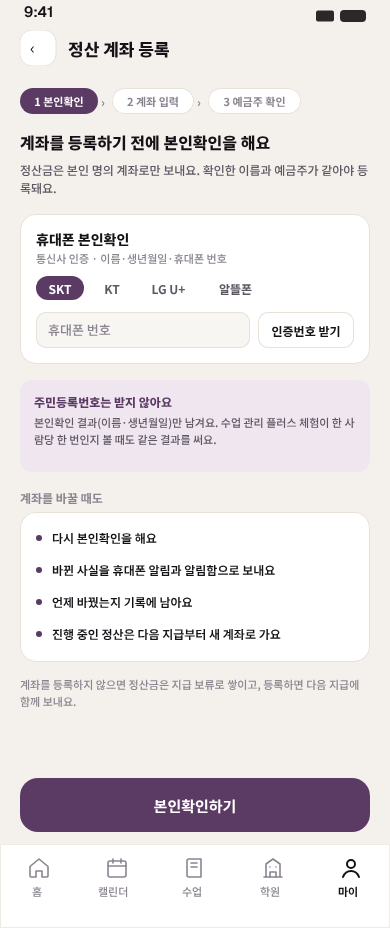
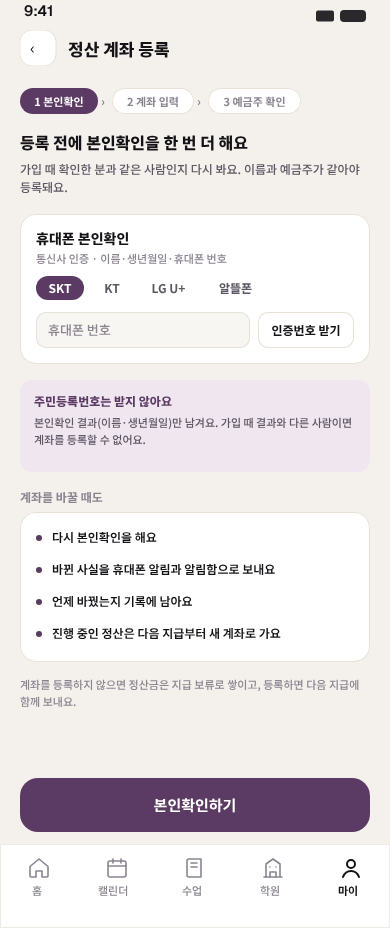
docs(spec): 회원 가입 정보 화면을 일반 가입 화면처럼 바꾸고 강사 가입에 휴대폰 본인확인을 필수로 넣는다
회원 가입 정보(M3)에서 본인확인 표시를 빼고 인증 값이 채워진 보통 입력칸과 남/여 선택 막대로 그렸다. 대학생 칸은 토글 없이 메일 인증 버튼만 둔다. 강사는 본인확인부터 한 뒤 아이디를 만들고 한 사람당 계정 하나만 갖는다. 미루면 찾기 구멍과 자기 신고뿐인 만 19세 확인이 남기 때문이다. 정산 계좌 등록 때는 같은 사람인지 한 번 더 확인한다.

spec: FR-002(가입 정보 수집·고지) · FR-006(대학생 이메일 인증) · FR-011(강사·대표 계정 승인) · FR-112e(1년 체험) · FR-133·FR-133b(강사 정산 계좌) · Q23(강사 본인확인 시점) 확정 · Q41(강사 가입 규칙)
보드: M3 · I31C · I31 · I31B · I18

diff --git a/specs/001-ai-dance-class-platform/spec.md b/specs/001-ai-dance-class-platform/spec.md
@@ -348,6 +348,8 @@
 | 2026-11-13 | **대표 앱에서도 할 수 있는 일을 넓힘** — 관리자 웹 기능 가운데 휴대폰에서 할 수 있는 13가지(강사 관리·권한 토글·소속 해제·현장 등록·1+1 참여·자주 묻는 질문 승인·수업 간단 수정·휴강 현황·주문 찾기·정산 이의 답·지급 보류 확인·환불 실행·강사 지급 승인)를 대표 앱에 넣었다. 환불 실행과 강사 지급 승인은 실행 직전 패스키 확인, 지급 승인은 정식 운영부터. 계좌 변경·CSV·강의실 주간표·공지 양식·행사 등록과 일괄 취소·입점 해지는 웹에만. 보드 O37~O49(O39B·O48B 포함) 새로 그림. 2026-10-05·10-11 결정을 바꿈 | 사용자 지시(2026-11-13) — 「대표가 웹에서 하는 기능 중 앱에서도 가능한 것은 강사 권한 토글 등 모바일에서 편하게 모두 앱에도」. 돈이 나가는 일은 휴대폰 분실 위험 때문에 웹에 두었는데, 패스키 확인으로 그 위험을 막고 앱에서도 열었다. 되돌릴 수 없는 행사 일괄 취소와 지급처를 바꾸는 계좌 변경은 웹에 남겼다 |
 | 2026-11-13 | **강사 이름으로 말로 물으면 수업 카드로 답함** — FR-037a(강사 수업 말로 찾기)를 새로 넣었다. AI 는 질문에서 강사·학원·요일·시간대만 뽑고 답은 DB 검색 결과 그대로다. 신청은 카드의 버튼으로 기존 수업 상세·결제 화면에 넘기며 AI 는 예약·결제를 실행하지 않는다(FR-214(AI 쓰기 금지) 유지). 이름이 겹치면 강사 후보 카드에서 고르게 한다. AI 플래너(M10)에 합치고 강사 프로필(M15)에 입구를 둔다. 추천과 달리 조회라서 베타부터 켠다(사용자 결정). |
 | 2026-11-13 | **수업 이미지 프롬프트에 필수 정보 칩과 완성 예시를 넣고, 장르별 기본 조건을 덧붙임** — FR-061a(홍보 이미지 생성 조건): 필수 4항목(누가·분위기·장소·색감·조명)을 칩으로 고르면 문장이 채워지고 빠지면 만들기가 잠긴다. 필수 정보가 든 완성 예시를 장르별로 보인다. 시스템이 덧붙이는 것을 두 가지에서 세 가지로 늘려 수업 장르에 맞는 기본 조건을 더하되, 화면에 그대로 보여 주고 끌 수 있게 했다(2026-09-25 「두 가지뿐」 결정을 바꿈 — 짧게 쓰면 소셜댄스와 맞지 않는 그림이 나와서). FR-061(수업 소개 문구 생성): 소개 문구는 수업 데이터와 「강조할 점」 한 줄로 만들고 시간·가격은 데이터 값을 그대로 넣는다. 칩 낱말·예시 문장·장르별 조건은 추천안(사용자 확인 대기). 보드 I32B(만들기)·I32C(예시 보기)·I32D(소개 문구·강조할 점)를 새로 그리고 I32 의 낱말 버튼을 고쳤다. |
+| 2026-11-18 | **회원 가입 정보 화면(M3)을 일반 앱 가입 화면처럼, 대학생은 토글 없이 메일 인증 버튼만** — 휴대폰 인증은 M2 에서 끝났으므로 M3 에서 「본인확인」 표시를 뺐다. 생년·연락처는 인증 값이 채워진 보통 입력칸으로, 성별은 인증 값이 골라진 남/여 선택 막대로 그렸다. 연락처는 인증사 계약에 따라 못 받을 수 있어 그때는 직접 적는다. 대학생 칸은 켜고 끄는 토글을 없애고 학교 이메일 칸과 `인증 메일 보내기` 버튼만 두며, 비워 두면 넘어간다. FR-002(가입 정보 수집·고지)·FR-006(대학생 이메일 인증) 화면 문단 추가 | 사용자 결정 — 인증은 앞 화면에서 했으니 같은 표시를 반복하지 않고, 토글은 한 번 더 누르게 할 뿐이다. 생년월일·성별을 인증 결과로 받을 수 있는지는 포트원 V2 서버 SDK 문서로 확인했다(다날·KG이니시스 모두 제공) |
+| 2026-11-18 | **강사도 가입할 때 휴대폰 본인확인 필수 · 한 사람 한 강사 계정** — 강사 가입을 ① 휴대폰 본인확인(I31C) → ② 아이디·비밀번호(I31) 순서로 바꿨다. 같은 CI 로 강사 계정이 이미 있으면 새로 만들지 않고 기존 아이디로 안내한다. 만 19세 이상은 체크박스 대신 본인확인 생년월일로 확인하고, 체험 시작 때 「나중에 하고 기본 기능으로 시작」은 없앴다. 아이디·비밀번호 찾기(I31B)는 계정 하나만 보인다. Q23(강사 본인확인 시점) 확정, Q41(강사 가입 규칙) 수정, FR-011(강사·대표 계정 승인)·FR-112e(수업 관리 플러스(강사 구독)·1년 체험)·FR-133b(강사 정산 지급 흐름) 수정 | 사용자 결정 — 가입 직후 체험 본인확인으로 이미 거의 모든 강사가 본인확인을 하고 있었다. 미루면 본인확인 없는 계정의 찾기 구멍, 자기 신고뿐인 만 19세 확인, 실명 확인 안 된 강사가 회원에게 보이는 문제가 남는다. 정산 계좌 등록 때 본인확인은 계좌 보호용 재확인으로 남겼다(같은 날 사용자 결정, 보드 I18 문구 수정) |
 
 **정의서를 덮어쓰지 않았다.** 고정표가 거기 있고, 버전을 두 곳에 두면 반드시 어긋나기 때문이다(`core-rules.md` 「버전 정책」).
 
@@ -715,6 +717,7 @@
 - **FR-001**: 시스템은 카카오·구글·네이버 소셜 로그인으로 가입과 로그인을 제공해야 한다.
 - **FR-002**: 시스템은 가입 시 나이·성별·연락처를 필수로 수집해야 하며, 각 항목의 수집 목적을 가입 화면에서 고지해야 한다. **[2026-09-29 확정 — Q4(개인정보 수집 방식): 필수 유지. 정의서의 "권고로 두고 미체크 시 쿠폰·이벤트 제한" 안은 쓰지 않는다]**
   - **성별은 자동으로 체크된다**(2026-09-26 사용자 결정): 휴대폰 본인확인(FR-003(본인확인 계정 식별)) 결과로 가입 화면의 성별이 남 또는 여로 자동 체크된다. 회원이 성별을 따로 입력하지 않는다.
+  - **화면**(2026-11-18 사용자 결정, 보드 M3): 가입 정보 화면은 일반 앱 가입 화면처럼 그린다. 휴대폰 인증은 앞 화면(M2)에서 끝났으므로 이 화면에는 「본인확인」 표시를 다시 붙이지 않는다. 제목은 「가입 정보를 확인해요」, 설명은 「앞에서 인증한 휴대폰 정보로 미리 채워 뒀어요」다. 생년·연락처는 보통 입력칸에 인증 값이 채워져 있고, 성별은 남/여 선택 막대에 인증 값(예: 여)이 골라져 있다. 항목마다 수집 목적을 한 줄로 붙인다 — 생년「미성년자 결제 보호」, 성별「남·여 정원 배정」, 연락처「예약 확정·환불 알림」. 연락처는 인증사 계약에 따라 휴대폰 번호를 못 받을 수 있다(포트원 V2 기준 다날은 별도 계약 필요). 그때는 빈칸으로 두고 회원이 직접 적는다. 생년월일·성별은 다날·KG이니시스 모두 항상 준다.
   - **주민등록번호와 그 일부는 받지 않는다**(2026-09-26 사용자 결정): 주민등록번호는 물론 "생년월일 + 뒷자리 첫 숫자"(예: 890505-1) 형태의 입력칸도 두지 않는다. 성별만 본인확인 값으로 받는다. 소셜 로그인(카카오·네이버·구글)은 로그인 수단으로만 쓰고 성별을 거기서 받지 않는다 — 소셜 계정의 성별은 사용자가 스스로 적은 값이라 비어 있거나 틀릴 수 있다. 이 값은 수강 신청 때 정원 자리(남·여)의 기본 선택이 되고, 수강 신청할 때마다 바꿀 수 있다(FR-092(성별 정원)).
 - **FR-003**: 시스템은 휴대폰 본인확인을 거친 사람 단위로 계정을 식별해야 한다. 혜택·쿠폰의 중복 수령 판정은 기기가 아니라 이 사람 단위로 한다.
   - **화면**(2026-11-10 보드 C14B — 추천안, 사후 확인): 새 소셜 계정으로 가입하다 본인확인에서 같은 사람의 기존 계정이 나오면 「계정 찾기」 화면을 보인다. 찾은 계정의 가입일과 쓰던 로그인, 이어질 예약·쿠폰·카드·멤버십을 요약하고, 새 소셜 계정을 연결할지 기존 로그인을 계속 쓸지 고르게 한다. 새 계정은 만들지 않는다. 새 소셜 계정을 연결하면 옛 연결은 풀려 한 계정에 소셜 로그인 하나만 남고, 휴대폰 번호가 달라졌으면 연락처를 새 번호로 바꾼다. 「제 계정이 아니에요」는 운영자 문의로 보낸다.
@@ -736,6 +739,7 @@
 - **FR-005**: 시스템은 역할별로 접근 가능한 데이터 범위를 제한해야 한다. 강사는 자기 수업의 결제 완료 수강생만(무료 수업은 신청이 확정된 수강생을 결제 완료와 같게 본다 — 2026-09-25 보완), 대표는 자기 학원 소속 데이터만 조회할 수 있다.
   - **[임시 확정 2026-11-10 — 추천안으로 진행, 사후 확인]** **강사 명단 표시 범위**: 강사 명단에는 결제 완료 수강생의 이름(닉네임 — FR-019a(회원 닉네임 표시))과 가운데를 가린 연락처(예: 010-****-1234)만 보인다. 결제 대기 수강생은 이름 없이 「결제 대기 N명」 숫자로만 보인다 — 보드 I10 의 결제 대기 줄은 숫자로 바꾼다. 전체 연락처 열람은 FR-187(연락처 마스킹)의 사유 기록을 따른다.
 - **FR-006**: 시스템은 대학생 자격을 **학교 이메일 도메인(.ac.kr) 인증**으로 확인해야 한다(2026-09-21 확정). 인증은 선택이며 가입 이후에도 마이 화면에서 할 수 있다.
+  - **가입 화면**(2026-11-18 사용자 결정, 보드 M3): 「대학생이에요 · 선택」 아래에 학교 이메일 칸과 `인증 메일 보내기` 버튼만 둔다. 켜고 끄는 토글은 두지 않는다 — 토글을 켜야 칸이 열리는 구조는 한 번 더 누르게 할 뿐이다. 칸을 비워 두면 인증하지 않은 것으로 보고 넘어간다. 아래에 「비워 두면 그냥 넘어가요. 인증하면 첫 결제 1회 50% 할인이고, 나중에 마이에서도 할 수 있어요」를 적는다.
   - **화면**(2026-10-10, 보드 M17·M12): 마이의 멤버십·혜택 묶음에 「대학생 인증 · 학교 이메일(.ac.kr) · 첫 결제 1회 50% · 인증하기 ›」 줄을 둔다. 인증 화면은 혜택 설명(첫 결제 수업 1건 1달치 반값, 두 번째부터 정상가) → 학교 이메일 입력 → 「인증 메일을 보냈어요」와 `메일 다시 보내기` 순서다. 아래에 한 이메일은 한 계정만(FR-006b(학교 이메일 중복 차단)), 재학이 아니면 정상가 재청구(FR-007(허위 인증 혜택 회수)), 인증은 선택이라는 점을 적는다. 링크 유효 시간 값은 아직 정하지 않아 화면에 숫자를 쓰지 않는다(FR-006a(인증 링크 유효 기간)).
 - **FR-006a**: 시스템은 인증 메일의 확인 링크에 유효 기간을 두고, 기간이 지나면 재발송하게 해야 한다.
 - **FR-006b**: 시스템은 하나의 학교 이메일로 여러 계정이 혜택을 받지 못하도록 막아야 한다. **[신규]**
@@ -760,10 +764,10 @@
   - **[임시 확정 2026-11-10 — 추천안으로 진행, 사후 확인]** **자녀 등록 대상을 만 19세 미만으로 넓힌다**(Q17(미성년자 결제 동의)). 만 14~18세 자녀도 이름 · 성별 · 생년월일로 등록하고 보호자가 결제한다. 자녀 추가 화면은 만 14세 이상 생년월일을 막지 않는다(만 19세 이상만 막는다). **자녀가 만 14세가 되어도 그대로 보호자 계정의 자녀로 둔다**(Q29(자녀 만 14세 이후)). 본인 계정으로 옮기는 것은 만 19세가 된 뒤 본인이 직접 가입하면서 보호자가 한 번 확인해 수강 이력·레벨을 넘겨받는 방식이다. 레벨은 자녀별로 따로 쌓는다(추천안). 이전: 만 14세 미만만 자녀로 등록, 만 14세 이후 처리는 ⚠ 정할 것.
 - **FR-010**: 시스템은 탈퇴 후 재가입한 사람이 1회성 혜택을 다시 받지 못하도록 판정해야 한다. **[신규]**
 - **FR-011**: 시스템은 대표 계정을 운영자의 입점 승인을 거쳐 활성화해야 한다. **강사는 아이디·비밀번호로 자유롭게 가입**하고 가입 즉시 강사 기능과 프리미엄 체험(FR-112e(강사 프리미엄·1년 체험))을 쓴다. 승인이 필요한 것은 **학원 소속**뿐이다 — 강사가 학원에 강사 신청을 하면 그 학원 대표가 승인하고, 대표가 보낸 초대 링크로 들어오면 바로 소속된다. 소속은 학원마다 따로 승인한다. **[2026-10-05 사용자 결정으로 변경 — 이전: 강사도 승인 뒤 활성화. 강사 가입 문턱을 없애 프리미엄 구독을 유도하려는 것]**
-  - **화면**(2026-11-11 보드 I31 — 추천안, 사후 확인): 강사·대표 앱 로그인의 `강사 회원가입`에서 아이디(중복 확인)·비밀번호(두 번 입력)·회원에게 보이는 이름·활동 장르(FR-011b(강사 활동 장르 하나), 넷 중 하나)를 받고, 같은 화면에서 약관 동의를 받는다. 필수는 입점 이용약관·개인정보 수집·이용·만 19세 이상, 선택은 광고성 알림이다(FR-146(광고성 알림 동의)). 필수에 모두 동의하면 승인 없이 가입이 끝나고 체험 본인확인 화면(보드 I31C)으로 넘어간다. 학원 소속은 가입 뒤 학원 탭에서 따로 신청해 그 학원 대표의 승인을 받는다. 아이디·비밀번호 형식과 동의 항목은 Q41(강사 가입 규칙)에 올렸다.
-  - **화면**(2026-11-11 보드 I31B — 추천안, 사후 확인): 아이디 찾기와 비밀번호 찾기를 한 화면으로 묶는다. 휴대폰 본인확인을 하면 그 결과로 만든 강사 계정을 모두 보이고(FR-112e(수업 관리 플러스(강사 구독)·1년 체험)가 아이디를 새로 만들 수 있다고 전제한다), 고른 계정의 비밀번호를 그 자리에서 새로 정하게 한다. 비밀번호를 바꾸면 다른 기기의 로그인은 끝난다(FR-191(로그인 세션·기기 분실)). 찾는 수단은 휴대폰 본인확인 하나뿐이다(가입 때 이메일·전화번호를 받지 않는다). 본인확인을 한 번도 하지 않은 계정은 찾지 못하고 고객센터로 안내한다. 수단은 Q41(강사 가입 규칙)에서 확인한다.
+  - **화면**(2026-11-11 보드 I31 — 추천안, 사후 확인): 강사·대표 앱 로그인의 `강사 회원가입`에서 아이디(중복 확인)·비밀번호(두 번 입력)·회원에게 보이는 이름·활동 장르(FR-011b(강사 활동 장르 하나), 넷 중 하나)를 받고, 같은 화면에서 약관 동의를 받는다. 필수는 입점 이용약관·개인정보 수집·이용, 선택은 광고성 알림이다(FR-146(광고성 알림 동의)). 만 19세 이상인지는 체크박스로 묻지 않고 앞 단계 본인확인의 생년월일로 확인해 「만 19세 이상 · 본인확인으로 확인했어요」로 보인다(2026-11-18 변경). 이 화면은 가입 2/2 단계다 — 1/2 단계 휴대폰 본인확인(보드 I31C)을 마친 사람만 온다. 필수에 모두 동의하면 승인 없이 가입이 끝나고 1년 무료 체험이 바로 켜진다(버튼 `가입하고 체험 시작`). 학원 소속은 가입 뒤 학원 탭에서 따로 신청해 그 학원 대표의 승인을 받는다. 아이디·비밀번호 형식과 동의 항목은 Q41(강사 가입 규칙)에 올렸다.
+  - **화면**(2026-11-11 보드 I31B — 추천안, 사후 확인): 아이디 찾기와 비밀번호 찾기를 한 화면으로 묶는다. 휴대폰 본인확인을 하면 그 결과(CI)로 만든 강사 계정 하나를 보이고(강사 계정은 한 사람당 하나 — 2026-11-18 변경. 이전: 같은 사람의 계정을 모두 보임), 그 계정의 비밀번호를 그 자리에서 새로 정하게 한다. 비밀번호를 바꾸면 다른 기기의 로그인은 끝난다(FR-191(로그인 세션·기기 분실)). 찾는 수단은 휴대폰 본인확인 하나뿐이다(가입 때 이메일·전화번호를 받지 않는다). 모든 강사 계정이 가입 때 본인확인을 거치므로 본인확인 없는 계정은 없다. 휴대폰 번호가 바뀌어도 같은 사람이면 찾을 수 있고, 본인확인 자체가 안 되면 고객센터로 안내한다. 수단은 Q41(강사 가입 규칙)에서 확인한다.
   - **설명회용 대표 임시 권한**(2026-10-11 사용자 결정): 플랫폼을 쓸 대표로 정식 등록(입점 승인)되기 전이라도, 입점 설명회에서 바로 써 볼 수 있게 **대표 아이디를 저장하면 임시 권한이 생기고** 강사·대표 앱의 수업 관리 플러스(FR-112e(수업 관리 플러스(강사 구독)·1년 체험)) 기능을 곧바로 쓸 수 있다. 임시 권한으로는 회원 앱에 수업을 공개하거나 결제를 받을 수 없다 — 돈이 오가는 일은 증빙을 확인하는 입점 승인 뒤에 열린다(이 제한은 사용자 결정이 아니라 입점 심사를 지키기 위한 기본값이다). 아직 정하지 않은 것: 임시 권한이 언제까지인지(입점 승인·거절 시 끝나는지, 기간을 두는지), 1년 무료 체험을 임시 권한 시작일부터 세는지 입점 승인일부터 세는지, 임시 아이디를 대표가 직접 만드는지 운영자가 설명회 전에 만들어 주는지.
-  - **[임시 확정 2026-11-10 — 추천안으로 진행, 사후 확인]** **강사 휴대폰 본인확인은 정산 계좌를 등록하기 전에 한다.** 가입은 아이디·비밀번호로 바로 되고, 정산 계좌 등록 화면에 들어갈 때 본인확인을 한 번 거친다. 그 이름이 계좌 예금주 확인의 기준이다(FR-133(강사 전용 계좌)·FR-133b(강사 정산 지급 흐름)).
+  - **강사는 가입할 때 휴대폰 본인확인을 반드시 거친다 · 한 사람 한 강사 계정**(2026-11-18 사용자 결정. 이전 임시 확정 2026-11-10: 정산 계좌를 등록하기 전에 한다). 가입은 ① 휴대폰 본인확인(보드 I31C) → ② 아이디·비밀번호·이름·활동 장르·약관(보드 I31) 순서다. 같은 CI 로 이미 강사 계정이 있으면 새 계정을 만들지 않고 「이미 가입한 강사예요」와 가린 아이디를 보이며 로그인이나 비밀번호 새로 정하기로 보낸다. 만 19세 미만이면 가입할 수 없다. 본인확인 이름은 정산 계좌 예금주 확인의 기준이 된다(FR-133(강사 전용 계좌)·FR-133b(강사 정산 지급 흐름)). 회원 계정과 강사 계정은 앱이 달라 같은 사람이 둘 다 가질 수 있다. **왜**: 가입 직후 체험 본인확인으로 거의 모든 강사가 본인확인을 하게 돼 있었고, 미루면 본인확인 없는 계정의 아이디·비밀번호 찾기 구멍, 체크박스뿐인 만 19세 확인, 실명 확인 안 된 강사가 회원에게 보이는 문제가 남는다.
 - **FR-011b**: 시스템은 강사가 가입할 때 **활동 장르**를 고르게 해야 한다(필수). 강사에게는 **장르만** 받고, 세부 장르(종목 — 차차차·쌈바·슬로우왈츠·퀵스텝 등)는 고르게 하지 않는다(2026-10-05 사용자 결정). **[신규 2026-10-05, 사용자 결정]**
   - **장르 묶음은 하나**: 댄스스포츠·아르헨티나 탱고·스윙댄스·살사/바차타 가운데 하나를 고른다.
   - **강사의 장르는 댄스스포츠·살사/바차타 그 자체다**(2026-10-11 사용자 결정, 보드 I9·I5): 댄스스포츠에는 `라틴`·`스탠다드`가, 살사/바차타에는 `살사`·`바차타`가 원래 포함돼 있다. 강사는 장르 하나(예: 댄스스포츠)를 고르고 그 안의 세부 장르 수업을 모두 열고 관리한다. 라틴·스탠다드로 나뉘어 보이는 것은 **회원 앱이 세부 장르 기준으로 나눠 보여 주기 때문**이고, 강사에게 따로 있는 장르가 아니다. 그래서 강사 마이의 활동 장르는 `댄스스포츠`로만 표시한다. 가입·마이에서 안쪽 장르를 따로 고르지 않는다. 이 규칙은 댄스스포츠와 살사/바차타에만 있고, 아르헨티나 탱고·스윙댄스는 나누지 않는다. 수업 하나는 세부 장르 하나·종목 하나로 연다(FR-050(강사 수업 등록)). 강사 캘린더에는 `전체 장르 · 라틴 · 스탠다드`(살사/바차타면 `살사 · 바차타`) 필터를 둔다. *(이전 2026-10-05: 안에서 하나 이상 골라 고른 쪽만 열 수 있었다. 바꾼 이유: 강사가 실제로 두 쪽 수업을 함께 맡는 경우가 많고, 수업마다 세부 장르를 고르므로 활동 장르에서 한 번 더 고를 필요가 없다)*
@@ -1365,7 +1369,7 @@
 - **FR-112d**: 시스템은 멤버십이 없는 회원에게 **가입일부터 3개월 동안** AI 에이전트 검색과 대기 신청·대기자 알림, 학원 구독과 학원 소식 알림(FR-023a(학원 소식 구독), 2026-10-04 추가)을 체험으로 열어 줘야 한다. **쿠폰은 체험에 들어가지 않는다.** 체험이 끝나면 이 기능들이 닫히고 멤버십 안내를 보여준다. 체험 중에 걸어 둔 대기는 그 수업이 끝날 때까지 유지한다. 체험은 사람 단위로 1회뿐이다(FR-010(재가입 혜택 차단)과 같은 판정). **[신규 2026-09-25]**
   - **멤버십 기능 잠금 표시 — 불투명 유리**(2026-10-11 사용자 결정, 보드 M7N): 가입 3개월 체험이 끝났거나, 멤버십을 해지해 이미 낸 기간까지 다 쓴 회원에게는 멤버십 전용 기능(FR-112c(멤버십 전용 혜택))을 **지우지 않고 불투명 유리처럼** 보여 준다 — 그 부분에 흐림을 주고 반투명 아이보리 막(화면 바탕색 #F4F1EC, 약 60%)과 얇은 흰 테두리를 덮어 **글씨가 거의 안 보이게** 한다. 넓은 영역(예: 쿠폰함의 쿠폰 카드들)에는 **가운데에 멤버십 가입 버튼**(왕관 아이콘 + `멤버십 가입하고 열기`, 딥 플럼 #5B3A63 바탕 · 흰 글씨 — 2026-11-09 사용자 결정으로 변경. 이전(2026-10-11): 아이보리 #EDE3D3 바탕 · 웜토프 테두리 · 왕관만 갈색, 「갈색 꽉 찬 버튼은 촌스럽다」)을 두고, **누르면 멤버십 가입·결제 화면(보드 M18)으로 바로 간다**. 작은 표시(`AI 검색`)는 막만 덮고, 눌러도 같은 화면으로 간다. 버튼(대기 신청·구독)은 막 위에 버튼 크기의 `멤버십으로 대기`·`멤버십으로 구독`을 둔다. 대상: AI 검색 표시, 대기 신청 버튼, 학원 `🔔 구독` 버튼, 쿠폰함. **1+1 영역·`1+1만` 필터·`1+1` 태그는 가리지 않는다**(2026-10-11 사용자 결정 — 어느 학원·수업이 1+1 인지는 수업을 고르는 정보다. 대신 결제할 때 1+1 을 고르면 연 멤버십 안내를 띄운다). 일반 검색·수업 신청처럼 무료 기능은 그대로 둔다. **왜**: 기능을 아예 숨기면 무엇을 놓치는지 모르고, 그대로 두면 눌렀다가 막히는 경험이 생긴다 — 보이되 쓸 수 없다는 것을 한눈에 알게 한다.
 - **FR-112e**: 시스템은 강사 앱을 **기본 기능은 계속 무료**, 고급 기능은 **수업 관리 플러스**(구독)으로 제공해야 한다. 회원 멤버십(FR-112(멤버십 결제수단))과 별개의 플랫폼 상품이다. **[신규 2026-10-05, 사용자 결정. 같은 날 정정 — "1년 무료 뒤 월 구독"으로 보이면 강제처럼 읽혀 "기본 무료 + 선택 프리미엄"으로 바꿈]**
-  - **화면**(2026-11-11 보드 I31C — 추천안, 사후 확인): 가입을 마치면 체험 안내(1년 무료·끝나는 날·자동 결제 없음)와 휴대폰 본인확인 칸을 보인다. 본인확인을 마치면 체험이 켜지고, 같은 본인확인 결과로 이미 체험을 받았으면 「이미 체험을 쓰셨어요」를 보이고 기본 기능으로 시작한다. 본인확인은 나중에 해도 되며 그동안 플러스 기능은 잠긴다. 체험 기간은 가입한 날부터 센다. 이 본인확인 결과는 정산 계좌 등록 때 예금주 확인에 다시 쓴다(Q23(강사 본인확인 시점) 보완 참고). 주민등록번호는 받지 않는다.
+  - **화면**(2026-11-18 변경, 보드 I31C — 이전 2026-11-11: 가입을 마친 뒤 체험 시작 전 본인확인, 「나중에 하고 기본 기능으로 시작」 가능): 강사 가입 1/2 단계다. 위에 체험 안내(1년 무료·끝나는 날·자동 결제 없음)를 두고, 「강사 계정은 한 사람당 하나예요」 아래 휴대폰 본인확인 칸을 보인다. 이 본인확인으로 이미 강사 계정이 있는지·만 19세 이상인지를 확인한다. 이미 계정이 있으면 「이미 가입한 강사예요」와 가린 아이디를 보이고 새 계정을 만들지 않는다. 건너뛰기 버튼은 없다. 강사 계정이 한 사람당 하나라 체험도 자연히 한 사람당 한 번이다. 이 결과(이름·생년월일)는 정산 계좌 예금주 확인과 아이디·비밀번호 찾기에 쓴다. 주민등록번호는 받지 않는다.
   - **화면**(2026-11-11 보드 I36B — 추천안, 사후 확인): 플러스가 끝나면 캘린더 탭은 그대로 두고 일정 칸을 가린 채 「캘린더는 수업 관리 플러스 기능이에요」와 `수업 관리 플러스 알아보기`를 보인다. 넣어 둔 개인 일정은 지우지 않는다. 그 아래에 플러스 없이 쓰는 길(수업 등록·수정, 수업 상세에서 회차 휴강·시간·장소 변경, 정산)을 적고, 결제한 수강생에게 가는 휴강·변경 알림은 그대로라고 밝힌다. 가격·기한은 적지 않는다.
   - **화면**(2026-11-11 보드 I37 — 추천안, 사후 확인): 잠김 안내 창 안에 무엇이 잠겼는지 한 줄과 「수업 등록과 정산은 계속 무료예요」를 함께 적는다. 이 창은 홈 오늘 인원 표·캘린더·회차 상세 회원 관리 탭·레벨 정하기·수강생 공지·지난 수업·AI 수강생 검색·새 반 열기 추천에서 뜬다.
   - **화면**(2026-11-11 보드 I37B — 추천안, 사후 확인): 해지를 누르면 시트로 세 가지(다음 결제부터 청구 안 함 · 낸 기간은 끝까지 씀 · 남은 기간 환불 없음)를 날짜와 함께 보인다. 기간이 끝나면 기본 기능으로 돌아가며 수강생 데이터는 가려질 뿐 지우지 않는다고 적는다. 기간이 끝나기 전에는 같은 화면에서 해지를 취소할 수 있다. 구독 중일 때 시트에 `해지하기 ›` 입구를 더한다.
@@ -1374,7 +1378,7 @@
   - **요금**(수업 관리 플러스): 월 **10,000원**, 또는 **연 108,000원**(120,000원에서 **10% 할인**, 회원 연 멤버십(FR-112a(연 멤버십 10% 할인))과 같은 할인율)을 한 번에 결제한다. 할인은 플랫폼이 부담한다. 결제수단·자동 갱신은 회원 멤버십 규칙(FR-112(멤버십 결제수단))과 같다.
   - **해지와 환불 — 환불하지 않는다**(2026-10-05 사용자 결정 — 환불 때 돌려받지 못하는 결제 수수료와 처리 비용이 플랫폼에 부담이 크다): 월·연 모두 **해지하면 다음 결제(갱신)만 멈추고, 이미 낸 기간은 끝까지 쓴다.** 연 구독도 남은 달의 **차액을 환불하지 않는다.** 회원 멤버십(FR-297a(멤버십 환불 없음))과 같은 원칙이다 — 강사는 1년 무료 체험으로 미리 충분히 써 볼 수 있다. 결제 화면과 약관에 "결제 후에는 환불되지 않으며, 해지하면 다음 결제부터 청구하지 않습니다"를 결제 전에 분명히 알린다.
     - **법적 확인 필요**: 전자상거래법의 청약철회(결제 후 7일) 예외 — 디지털 서비스 제공이 시작됐고, 체험 기회를 줬고, 철회 제한을 미리 알렸는지 — 를 출시 전 약관 검토에서 확인한다. 법이 환불을 요구하는 경우는 그에 따른다.
-  - **특별 프로모션 — 수업 관리 플러스 1년 무료 체험**: 강사 계정이 활성화된 날(FR-011(강사·대표 계정 승인))부터 1년 동안 수업 관리 플러스 기능을 무료로 쓴다. 체험이 끝나도 자동으로 결제하지 않고 기본 기능으로 돌아간다. **체험은 본인확인 CI(FR-003(본인확인 계정 식별)) 한 사람당 한 번이다**(2026-10-05 사용자 결정) — 강사는 자유 가입이라 아이디를 새로 만들어 체험을 다시 받을 수 있다. 그래서 체험을 시작하기 전에 휴대폰 본인확인을 꼭 거치고, 체험 여부를 로그인 계정이 아니라 CI 에 기록한다. 같은 CI 로 다시 오면 "이미 체험을 쓰셨어요"를 보이고 체험을 주지 않는다.
+  - **특별 프로모션 — 수업 관리 플러스 1년 무료 체험**: 강사 계정이 활성화된 날(FR-011(강사·대표 계정 승인))부터 1년 동안 수업 관리 플러스 기능을 무료로 쓴다. 체험이 끝나도 자동으로 결제하지 않고 기본 기능으로 돌아간다. **체험은 본인확인 CI(FR-003(본인확인 계정 식별)) 한 사람당 한 번이다**(2026-10-05 사용자 결정) — 2026-11-18 부터 강사는 가입할 때 휴대폰 본인확인을 거치고 강사 계정은 한 사람당 하나라(FR-011(강사·대표 계정 승인)), 아이디를 새로 만들어 체험을 다시 받는 길은 가입 단계에서 막힌다. 다만 탈퇴한 뒤 다시 가입하는 경우를 위해 체험 여부는 로그인 계정이 아니라 CI 에 계속 기록한다. 같은 CI 로 다시 가입하면 계정은 새로 만들되 체험은 주지 않는다(이전: 체험을 시작하기 전에 본인확인, 「이미 체험을 쓰셨어요」 안내).
   - **이름은 「수업 관리 플러스」다**(2026-10-05 사용자 결정 — 이전: 강사 프리미엄). 무엇을 주는지(인원·명단·레벨·캘린더 = 수업 관리)가 이름에 드러나고, 「플러스」가 기본 기능 위에 더하는 선택 기능으로 읽힌다. 「프리미엄」은 돈 내는 등급처럼 읽혀 뺐다.
   - **화면 문구 원칙**: 가격과 **체험 기한(D-day·종료일)은 수업 관리 플러스 안내 화면(마이 → 수업 관리 플러스 시트)에만** 둔다(2026-10-05 사용자 결정 — 마이에 「체험 D-210」이 늘 보이면 기한을 자꾸 신경 쓰게 된다). 마이·홈 같은 평소 화면에는 기한도 가격도 적지 않고, 마이 줄 부제는 무엇을 하는 기능인지만 적는다(예: 「인원·명단·캘린더·AI 기능」). 시트에는 「무료 체험 중 · D-210 · ○월 ○일까지 · 끝나도 자동으로 결제되지 않아요」, 월·연 요금, 「해지하면 다음 갱신만 멈추고, 낸 기간은 끝까지 써요. 환불은 없어요」를 둔다. 아래 「끝나기 30일·7일 전 안내」는 예외로 그대로 띄운다.
   - **기본(무료)과 수업 관리 플러스의 경계**(2026-10-05 사용자 결정 — 자동 유료 전환은 하지 않는다):
@@ -1575,7 +1579,7 @@
 - **FR-131**: 시스템은 수업 취소(휴강·폐강)와 수강생 취소를 **예외 처리 경로**로 다뤄야 한다. 환불을 먼저 처리하고 그 결과를 정산 금액에 반영한다.
 - **FR-132**: 시스템은 정산 조정을 두 갈래로 처리해야 한다 — 보류·예정 구간이면 그 자리에서 차감하고, 이미 완료된 건이면 되돌리지 않고 다음 정산 주기에 증감으로 반영한다.
 - **FR-133**: 시스템은 정산금을 **강사 전용 계좌**로 지급해야 하며, 강사 1인당 하나의 전용 계좌를 두고 정산 이력이 그 계좌에 묶이게 해야 한다.
-  - **화면**(2026-11-10 보드 I18·I18B — 추천안, 사후 확인): 마이 › 정산 계좌에서 본인확인 → 계좌 입력 → 예금주 확인 세 단계로 등록한다. 본인확인은 휴대폰 본인확인이며 주민등록번호는 받지 않는다(Q23(강사 본인확인 시점)). 예금주가 본인확인 이름과 다르면 등록하지 못하고 다른 사람·법인 명의 계좌는 받지 않는다. 계좌를 바꿀 때도 같은 세 단계를 다시 거치고 알림과 기록을 남기며(FR-139(강사 계좌 변경 재확인)), 진행 중인 정산은 다음 지급부터 새 계좌로 나간다. 등록 전 정산금은 지급 보류로 쌓였다가 등록 뒤 다음 지급에 함께 나가고, 송금이 돌아와도 지급 보류로 바꾸고 알린다(FR-133a(정산 지급 실패)).
+  - **화면**(2026-11-10 보드 I18·I18B — 추천안, 사후 확인): 마이 › 정산 계좌에서 본인확인 → 계좌 입력 → 예금주 확인 세 단계로 등록한다. 첫 단계는 **재확인**이다 — 가입 때 이미 본인확인을 했지만(FR-011(강사·대표 계정 승인)), 돈이 나가는 계좌를 등록하기 직전에 휴대폰 본인확인을 한 번 더 해 가입 때 확인한 사람과 같은지(CI) 본다. 다르면 등록하지 못한다(2026-11-18 사용자 결정 — 로그인된 휴대폰을 다른 사람이 쓰고 있어도 정산금이 엉뚱한 계좌로 가지 않게). 주민등록번호는 받지 않는다(Q23(강사 본인확인 시점)). 예금주가 본인확인 이름과 다르면 등록하지 못하고 다른 사람·법인 명의 계좌는 받지 않는다. 계좌를 바꿀 때도 같은 세 단계를 다시 거치고 알림과 기록을 남기며(FR-139(강사 계좌 변경 재확인)), 진행 중인 정산은 다음 지급부터 새 계좌로 나간다. 등록 전 정산금은 지급 보류로 쌓였다가 등록 뒤 다음 지급에 함께 나가고, 송금이 돌아와도 지급 보류로 바꾸고 알린다(FR-133a(정산 지급 실패)).
   - **정산 계좌 예금주 확인** **[보완 2026-11-10 — 필수 기능 점검, 추천안·사용자 확인 대기]**: 강사가 정산 계좌를 등록하면 예금주가 본인확인 이름과 같은지 확인한다(무료 구간 안에서 가능한 방법으로 — 방법은 확인 필요). 대표가 입점 때 내는 학원 정산 계좌(FR-250(입점 심사·게시 제한))도 같다.
   - ⚠ 임시 확정으로 아래 불릿이 우선한다(이전 규칙은 그대로 남긴다).
   - **[임시 확정 2026-11-10 — 추천안으로 진행, 사후 확인]** 지급 계좌는 그대로 강사 전용 계좌다. 다만 돈을 보내는 주체는 플랫폼이 아니라 대금을 받은 학원이고, 대표가 승인해야 나간다. 순서·승인·재알림은 FR-133b(강사 정산 지급 흐름)를 따른다.
@@ -1585,7 +1589,7 @@
   - **화면**(2026-11-11 보드 W24 — 추천안, 사용자 확인 대기): 관리자 웹 강사 관리의 「강사 몫 비율」 탭에서 대표가 소속 강사마다 수업료 중 강사 몫 비율을 정한다(Q33(강사 몫 비율)). 기본값은 없고 새 강사는 빈칸으로 시작한다. 빈칸인 강사는 정산일에 지급액을 계산하지 않고 강사 지급 표에서 빠지며 대표와 강사에게 알린다. 비율을 바꾸면 바꾼 날 뒤에 결제한 수업부터 새 비율을 쓰고 이미 계산한 지급액은 그대로다. 바꾼 사람·시각·이전 값과 새 값을 기록하고 강사에게 알린다.
   - **화면**(2026-11-10 보드 W11 — 추천안, 사후 확인): 정산·원장의 「강사 지급」 탭은 정산일에 강사별 지급액을 표로 보인다 — 정산 완료 매출, 강사 몫, 세전 지급액, 원천징수(금액만 표시), 실지급액, 정산 계좌, 상태. 대표가 체크한 강사를 `승인하고 지급 대상 내려받기`로 승인하면 이름·은행·계좌·금액 파일을 받고(베타), 은행 대량이체 뒤 `지급 완료 표시`를 누르면 강사에게 지급 알림이 간다. 정식 운영에서는 같은 버튼이 PG 지급대행을 부른다. 정산일 뒤 5영업일 안에 승인하지 않으면 강사와 대표에게 다시 알린다. 강사 몫 비율은 Q33(강사 몫 비율), 영업일 세는 법은 Q35(정산일이 주말·공휴일일 때)에서 정한다.
   - **화면**(2026-11-10 보드 O26 — 추천안, 사후 확인): 대표 앱에는 정산일 알림에서 열리는 강사 지급 요약만 둔다. 지급 금액·대상 인원·승인 기한과 강사별 금액을 보이고, 승인 버튼 없이 `내일 오전에 다시 알려 주기`만 있다. 승인은 2단계 인증이 있는 관리자 웹에서만 한다.
-  - **① 계좌 등록**: 강사는 휴대폰 본인확인을 마친 뒤 정산 계좌를 등록한다(본인확인 시점은 Q23(강사 본인확인 시점) 임시 확정 — 계좌 등록 직전). 예금주 확인과 계좌 변경은 FR-133(강사 전용 계좌)·FR-139(강사 계좌 변경 재확인)를 따른다. 계좌가 없는 강사의 몫은 지급 대상에서 빠지고 사유 「계좌 미등록」으로 보류된다(FR-252(정산 보류)).
+  - **① 계좌 등록**: 강사는 계좌를 등록하기 직전에 휴대폰 본인확인을 다시 해 가입 때와 같은 사람인지 확인한 뒤, 그 이름으로 예금주를 확인한다(Q23(강사 본인확인 시점) — 2026-11-18 사용자 결정: 가입 때 필수 + 계좌 등록 때 재확인). 예금주 확인과 계좌 변경은 FR-133(강사 전용 계좌)·FR-139(강사 계좌 변경 재확인)를 따른다. 계좌가 없는 강사의 몫은 지급 대상에서 빠지고 사유 「계좌 미등록」으로 보류된다(FR-252(정산 보류)).
   - **② 지급액 계산**: 정산일에 앱이 강사별로 `정산 완료`(FR-128(정산 3단계))가 된 몫에 조정분(FR-132(정산 조정))과 공제 항목을 반영해 지급액을 계산한다. 정산일은 학원 월 정산일(매월 5일, FR-125(학원 월 정산))이고, 이벤트형은 학원이 대금을 받은 뒤 처음 오는 정산일이다. 금액 기준은 강사 화면의 정산 내역(FR-135e(강사 정산 내역))·강사별 매출(FR-126(강사별 매출))과 같은 값이다.
   - **③ 대표 확인·승인**: 대표는 관리자 웹 「정산 · 원장」에서 강사별 지급액 목록을 보고 한 번에 승인한다. 특정 강사만 빼고 승인할 수 있고, 뺀 강사에게는 사유를 적어 보류로 남긴다(FR-252(정산 보류)). 승인 기록(누가·언제·대상 수·합계)은 감사 기록으로 남는다(FR-185(조작 감사 기록)). 대사가 맞지 않는 학원은 승인할 수 없다(FR-319a(정산 원장 불변·마감·대사 중단)).
   - **승인 지연 재알림**: 정산일 뒤 추천값 **5영업일** 안에 대표가 승인하지 않으면 대표와 해당 강사에게 다시 알리고, 그 뒤로도 추천값 5영업일마다 대표에게 알린다. 플랫폼이 대표 대신 승인하지 않는다.
@@ -2623,7 +2627,7 @@
 | **Q20(강사 명단 표시 범위)** | **임시 확정(2026-11-10 — 추천안으로 진행, 사후 확인)**: 이름과 가운데를 가린 연락처를 결제 완료 수강생만 보인다. 결제 대기는 인원 숫자로만 보인다(FR-005(역할별 데이터 범위)·FR-187(연락처 마스킹)). 「이름」은 FR-019a(회원 닉네임 표시)의 사용자 결정에 따라 닉네임으로 보인다. 강사 명단에 무엇이 보이나. FR-112e(수업 관리 플러스(강사 구독)·1년 체험)는 「이름·연락처」, FR-019a(회원 닉네임 표시)는 닉네임, FR-187(연락처 마스킹)은 연락처 가림이다. FR-005(역할별 데이터 범위)는 결제 완료만 보인다고 했는데 보드 I10 은 결제 대기도 보여 준다. **막히는 요구사항**: 강사 명단 화면 | FR-005 · FR-019a · FR-112e · FR-187 |
 | **Q21(문의 응답 기한)** | **임시 확정(2026-11-10 — 추천안으로 진행, 사후 확인)**: 1영업일. 넘기면 대표에게 다시 알리고 회원에게 「답변 대기 중」을 보인다(FR-231(응답 시간 고지)). 문의 응답 기한을 얼마로 두나, 넘기면 무엇을 하나. **막히는 요구사항**: FR-231(응답 시간 고지) · 대표 문의함 | FR-231 |
 | **Q22(개인 레슨 환불 공지)** | **임시 확정(2026-11-10 — 추천안으로 진행, 사후 확인)**: 강사가 정하는 개인 레슨 전용 양식을 둔다. 시작 24시간 전까지 변경·취소, 그 뒤는 1회 차감, 수강권 유효기간 추천값 3개월(FR-052c(학원에서 여는 개인 레슨)·FR-099b(공지 자동 입력)). 개인 레슨에 학원 환불·취소 공지를 그대로 쓰나, 따로 양식을 두나. 취소·시간 변경 기한과 수강권 유효기간은 이미 미정으로 적어 두었다(FR-052c(학원에서 여는 개인 레슨)). **막히는 요구사항**: FR-099b(공지 자동 입력) · 개인 레슨 미정 항목 | FR-052c · FR-099b |
-| **Q23(강사 본인확인 시점)** | **임시 확정(2026-11-10 — 추천안으로 진행, 사후 확인)**: 정산 계좌를 등록하기 전에 휴대폰 본인확인을 한다. 가입 때는 하지 않는다(FR-011(강사·대표 계정 승인)·FR-133(강사 전용 계좌)). 강사 휴대폰 본인확인을 가입 때 하나, 정산 계좌를 등록하기 전에 하나. **막히는 요구사항**: FR-011(강사·대표 계정 승인) · FR-133(강사 전용 계좌) **[보완 2026-11-11 — 보드 I31C, 추천안]** FR-112e(수업 관리 플러스(강사 구독)·1년 체험)는 체험을 켜기 전 본인확인을 요구해 시점이 둘로 갈린다. 보드는 체험 시작 때 한 본인확인을 정산 계좌 등록 때 예금주 확인에 다시 쓰고(계좌를 바꿀 때는 다시 한다), 본인확인을 미루면 플러스는 잠긴 채 체험 기간을 가입한 날부터 센다고 그렸다. 이 이음이 맞는지 정한다. | FR-011 · FR-133 |
+| **Q23(강사 본인확인 시점)** | **확정(2026-11-18 사용자 결정)**: 가입할 때 휴대폰 본인확인을 반드시 거치고, 강사 계정은 한 사람(CI)당 하나다(FR-011(강사·대표 계정 승인)). 아래 2026-11-10 임시 확정과 11-11 보완은 이 결정으로 대체됐다. 정산 계좌를 처음 등록할 때와 바꿀 때도 휴대폰 본인확인을 한 번 더 거쳐 가입 때와 같은 사람인지 확인한다(2026-11-18 사용자 결정, 보드 I18 — 계좌 보호용 재확인). ~~이전 임시 확정(2026-11-10): 정산 계좌를 등록하기 전에 휴대폰 본인확인을 한다. 가입 때는 하지 않는다.~~ 강사 휴대폰 본인확인을 가입 때 하나, 정산 계좌를 등록하기 전에 하나. **막히는 요구사항**: FR-011(강사·대표 계정 승인) · FR-133(강사 전용 계좌) **[보완 2026-11-11 — 보드 I31C, 추천안]** FR-112e(수업 관리 플러스(강사 구독)·1년 체험)는 체험을 켜기 전 본인확인을 요구해 시점이 둘로 갈린다. 보드는 체험 시작 때 한 본인확인을 정산 계좌 등록 때 예금주 확인에 다시 쓰고(계좌를 바꿀 때는 다시 한다), 본인확인을 미루면 플러스는 잠긴 채 체험 기간을 가입한 날부터 센다고 그렸다. 이 이음이 맞는지 정한다. | FR-011 · FR-133 |
 | **Q24(취소 수수료 기준 금액)** | **임시 확정(2026-11-10 — 추천안으로 진행, 사후 확인)**: 참가비 기준이다. 예매 수수료 2,000원은 비율 계산에 넣지 않고 따로 환불하지 않는다(FR-099c·FR-282a). 이벤트형 취소 수수료의 「결제액의 ○%」에서 결제액에 예매 수수료 2,000원이 들어가는지. 예매 수수료는 환불되지 않는 금액이라 들어가면 수수료 계산이 달라진다. **막히는 요구사항**: FR-099c(이벤트·원데이·파티·공연·대회 취소 규정) · FR-282a(예매 수수료 2,000원) | FR-099c · FR-282a |
 | **Q25(동반·단체 신청 범위)** | **임시 확정(2026-11-10 — 추천안으로 진행, 사후 확인)**: 한 사람만 취소할 수 있고 남은 사람 예약은 유지한다. 같은 성별 동반도 자리가 있으면 받는다. 단체 상한 추천값 10명(FR-105(2인 동반 신청)·FR-178(단체 신청)). 동반·단체로 신청한 뒤 한 사람만 취소할 수 있는지, 같은 성별끼리 동반을 받는지, 단체 인원의 상한과 할인이 있는지. 보드 C4A(동반)·C4B(단체)는 「함께 확정·함께 실패」만 그렸다. **막히는 요구사항**: FR-105(2인 동반 신청) · FR-178(단체 신청) | FR-105 · FR-178 |
 | **Q26(회차 옮긴 뒤 기준)** | **임시 확정(2026-11-10 — 추천안으로 진행, 사후 확인)**: 환불 마감일·취소 수수료는 옮긴 회차 기준으로 계산한다. 옮기기는 주문당 1번이다(FR-109(회차 옮기기)·FR-099d(환불 마감일 필수 입력·결제 적용)). 회차를 옮긴 뒤 환불 마감일과 취소 수수료를 어느 회차 날짜로 계산하는지, 몇 번까지 옮길 수 있는지. 원데이·이벤트형은 환불 마감일이 결제에 직접 걸려 있어 꼭 정해야 한다. **막히는 요구사항**: FR-109(회차 옮기기) · FR-099d(환불 마감일 필수 입력·결제 적용) | FR-109 · FR-099d |
@@ -2642,7 +2646,7 @@
 | **Q38(인원 차이 알림 기준과 수업 수정 제한)** | **임시 확정(2026-11-10 — 추천안으로 진행, 사후 확인)**: 남녀 결제 인원 차이가 3명 이상이면 수업 전날 18:00 에 알린다(보드 I22B). 결제한 수강생이 있는 수업에서 소속 학원·장르·종목·수업 구분은 고칠 수 없고, 금액·요일·시간·기간·정원은 대표 승인을 다시 받는다(보드 I24). 기준 숫자와 판정 시각, 못 바꾸는 항목의 범위를 정한다. **막히는 요구사항**: FR-107(성비 불균형 경보) · FR-050a(수업 등록 승인) | FR-107 · FR-050a |
 | **Q39(결제 기한 표시와 대회 참가 결제)** | **임시 확정(2026-11-10 — 추천안으로 진행, 사후 확인)**: 결제하던 주문으로 돌아가기 화면의 결제 기한은 30분으로 그렸다(보드 C17A). 대회 참가 신청은 한 쌍을 신청한 한 사람이 결제하고, 예매 수수료는 사람 수만큼 1인 2,000원씩 받는다(보드 C18A). 기한 값과 한 쌍 결제 방식을 이대로 쓸지 정한다. **막히는 요구사항**: FR-285(결제 기한) · FR-156(대회 참가 양식) · FR-282a(예매 수수료 2,000원) | FR-285 · FR-156 · FR-282a |
 | **Q40(회차 하나의 시간·장소 변경 승인)** | **임시 확정(2026-11-11 — 추천안으로 진행, 사후 확인)**: 한 회차의 시간·장소만 바꾸면 대표 승인 없이 바로 반영하고, 결제한 수강생과 대표에게 바뀌기 전·뒤 값을 알린다(보드 I34). 이후 회차 전부를 바꿀 때만 수업 수정으로 보내 대표가 다시 승인한다. FR-050a(수업 등록 승인)의 재승인이 수업 전체 값에만 걸린다고 읽은 것이라 맞는지 정한다. **막히는 요구사항**: FR-050a(수업 등록 승인) · FR-056(시간·장소 변경 통지) | FR-050a · FR-056 |
-| **Q41(강사 가입 규칙)** | **임시 확정(2026-11-11 — 추천안으로 진행, 사후 확인)**: 아이디는 영문 소문자·숫자 4~20자, 비밀번호는 8자 이상에 영문·숫자·기호를 섞고 아이디와 같으면 안 된다. 필수 동의는 입점 이용약관·개인정보 수집·이용·만 19세 이상 셋이고 선택은 광고성 알림 하나다. 아이디·비밀번호 찾기는 휴대폰 본인확인 하나로 하고, 한 사람의 강사 계정이 여럿이면 모두 보인다(보드 I31·I31B). 형식과 동의 항목, 찾기 수단을 이대로 쓸지 정한다. **막히는 요구사항**: FR-011(강사·대표 계정 승인) · FR-249(약관 동의 기록) · FR-003(본인확인 계정 식별) | FR-011 · FR-249 · FR-003 |
+| **Q41(강사 가입 규칙)** | **임시 확정(2026-11-11 — 추천안으로 진행, 사후 확인)**: 아이디는 영문 소문자·숫자 4~20자, 비밀번호는 8자 이상에 영문·숫자·기호를 섞고 아이디와 같으면 안 된다. 필수 동의는 입점 이용약관·개인정보 수집·이용 둘이고 선택은 광고성 알림 하나다. 만 19세 이상은 가입 때 본인확인 생년월일로 확인한다(2026-11-18 변경 — 이전: 체크박스 동의). 아이디·비밀번호 찾기는 휴대폰 본인확인 하나로 하고, 강사 계정은 한 사람당 하나라 찾은 계정 하나를 보인다(2026-11-18 변경, 보드 I31·I31B). 형식과 동의 항목, 찾기 수단을 이대로 쓸지 정한다. **막히는 요구사항**: FR-011(강사·대표 계정 승인) · FR-249(약관 동의 기록) · FR-003(본인확인 계정 식별) | FR-011 · FR-249 · FR-003 |
 | **Q42(입점 해지 때 남은 수업)** | **임시 확정(2026-11-11 — 추천안으로 진행, 사후 확인)**: 해지를 신청해도 결제된 수업은 끝까지 제공하고 정산도 정상으로 한다(FR-256 문장 그대로, 보드 W26). 남은 수업을 대체 수업이나 환불로 돌리는 선택지는 두지 않았고, 폐업처럼 수업 제공 자체가 안 되는 경우(Q11(환불 방식 변경의 뒤처리))도 그리지 않았다. 두 가지를 둘지 정한다. **막히는 요구사항**: FR-256(해지 후 결제건 처리) · FR-253(정산 상계) | FR-256 · FR-253 |
 | **Q43(대표 앱의 끌 수 없는 알림과 환불 기한 미리 알림)** | **임시 확정(2026-11-11 — 추천안으로 진행, 사후 확인)**: 대표 앱 알림 설정에서 환불 요청과 답할 기한, 결제 실패·다른 금액 입금, 강사 지급 승인과 카드 이의제기 알림은 끌 수 없게 그렸다(보드 O34). 정규 과정 환불은 답할 기한 하루 전 오전 9시에 미리 알린다(보드 W27, spec 에 없던 값). 끌 수 없는 묶음의 범위와 미리 알림 시각을 정한다. **막히는 요구사항**: FR-080(대표 운영 알림) · FR-098b(환불 요청 경로) | FR-080 · FR-098b |
 | **Q44(선택 업데이트 「나중에」 뒤 다시 알리는 간격)** | **임시 확정(2026-11-11 — 추천안으로 진행, 사후 확인)**: `나중에`를 누르면 바로 앱을 쓰고 7일 뒤에 한 번 더 알린다(보드 C32D). 보드의 버전 값(지금 1.2.0, 새 버전 1.3.0)은 강제 업데이트 안내(C20B)에 이어지게 정한 예시다. 간격을 7일로 둘지, 앱을 열 때 전체 화면으로 띄울지 홈 위 창으로 띄울지 정한다. **막히는 요구사항**: FR-022b(점검·강제 업데이트) | FR-022b |
